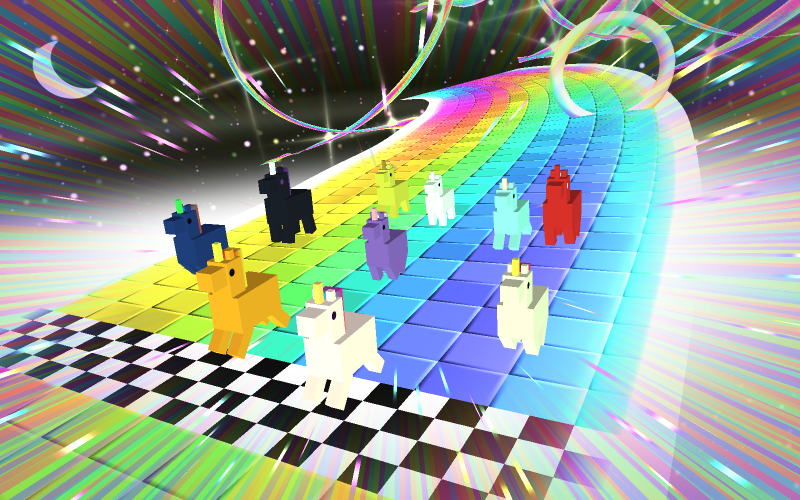
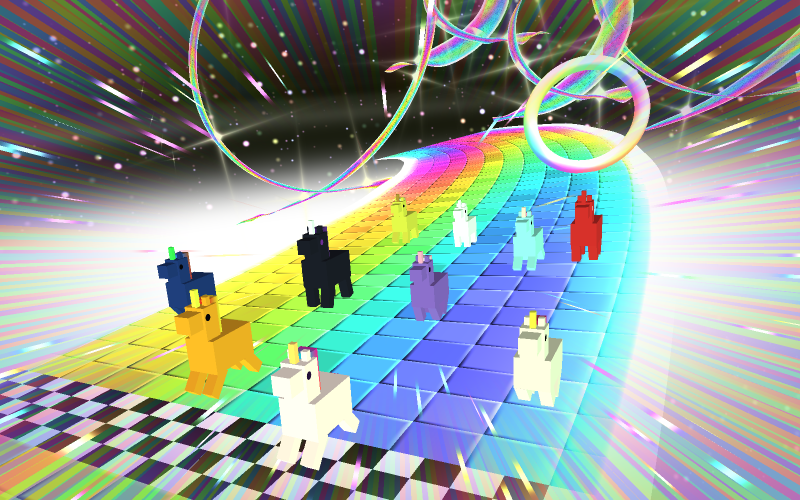
prep work for publish

diff --git a/src/game.js b/src/game.js
@@ -1816,6 +1816,7 @@ bmInit(canvas, [0.02, 0.02, 0.05, 0]).then(() => {
   const COUNT_ROW = 11;
   /** The row of "ST", then ND, RD, TH; four suffixes cover ten places. */
   const SUFFIX_ROW = NAME_ROW - 5;
+  const inkBounds = [];
   const atlasRows = Math.ceil(LINES.length / 2);
   const card = document.createElement('canvas');
   // Browser-font experiment: rasterize smooth rounded lettering at high
@@ -1866,6 +1867,7 @@ bmInit(canvas, [0.02, 0.02, 0.05, 0]).then(() => {
       edgeLeft = Math.min(edgeLeft, x);
       edgeRight = Math.max(edgeRight, x);
     }
+    inkBounds[row] = [edgeLeft, edgeRight];
     bctx.globalCompositeOperation = 'source-in';
     const rainbow = bctx.createLinearGradient(edgeLeft, 0, edgeRight, 0);
     for (let i = 0; i < 7; i++) rainbow.addColorStop(i / 6, `hsl(${i * 50} 90% 70%)`);
@@ -2237,7 +2239,11 @@ bmInit(canvas, [0.02, 0.02, 0.05, 0]).then(() => {
       // HUD markers: -1 numeral, -2 suffix, -3 gauge, -4 label. The shader
       // anchors the groups to SCREEN_PADDING and gives adjacent plates shared
       // edges. Ordinal sizes are relative to FONT_L; left rows use halves.
-      say(PLACE_ROW + place, 0, FONT_XL / FONT_L, -1);
+      // Close the gap between visible outlines, not their padded atlas cells.
+      const suffixRow = SUFFIX_ROW + Math.min(place, 3);
+      const gap = (inkBounds[suffixRow][0] - CARD_W + 12) * FONT_M / FONT_L
+        - 2 - (inkBounds[PLACE_ROW + place][1] - CARD_W / 2 - 50) * FONT_XL / FONT_L;
+      say(PLACE_ROW + place, gap - 0.6, FONT_XL / FONT_L, -1);
       say(SUFFIX_ROW + Math.min(place, 3), 0, FONT_M / FONT_L, -2);
       say(16, 0, FONT_M, -4);
       say(17 + starsHeld, 0, FONT_M, -3);
@@ -2363,4 +2369,7 @@ bmInit(canvas, [0.02, 0.02, 0.05, 0]).then(() => {
       bmDraw(text, n);
     }
   });
+}, () => {
+  // A DOM fallback remains visible even when WebGPU cannot create a device.
+  document.body.innerHTML = '<p style=color:white>No WebGPU';
 });

diff --git a/src/shaders/text.shader.ts b/src/shaders/text.shader.ts
@@ -61,7 +61,7 @@ export const Text = shader({
         // suffix's right edge, shared top, and shared side, the local terms
         // become exactly 0 or 1 before applying the scale. Thus shared edges
         // have identical f32 coordinates instead of independent rounding.
-        x = 1 - uHud.x + ((aCorner.x + suffix - 1) * aCell.z * 12 - uHud.w * 12 + (1 - suffix) * 2) * uHud.z;
+        x = 1 - uHud.x + ((aCorner.x + suffix - 1) * aCell.z * 12 - uHud.w * 12 + (1 - suffix) * 2 + aCell.y) * uHud.z;
         y = uHud.y - 1 + (0.75 + (aCorner.y - 0.75) * aCell.z) * 12 * uHud.z * (16 / 9);
         texX = aCorner.x * uRatio + mix(0.5 + 38 * uRatio / 12, 1 - uRatio, suffix);
       }

diff --git a/artifacts/covers/polished/generation-notes.md b/artifacts/covers/polished/generation-notes.md
@@ -1,0 +1,8 @@
+Generated using the built-in image_gen tool. Original game-rendered artwork is preserved in ../current.
+
+Cover prompt:
+Edit this game cover into polished AAA-quality stylized 3D racing key art. Preserve the actual block/cube unicorn designs and their distinct colors, white Starlight with rainbow mane barely winning at the checkered finish in foreground running toward left, friends spread behind, black Midnight and purple Sparkle near middle, rainbow tiled road with distant loops, one floating boost ring clear of road, no moon. Preserve the exact title lettering/font design from reference: STARLIGHT'S above RAINBOW RACE, white bold italic face, rounded rainbow bevel and shadow, full rainbow across each line, comfortable gap. Upgrade rendering dramatically: beautifully bevelled cube edges, crisp clean silhouettes, premium toy-like materials, subtle physically plausible rainbow bounce light on coats, contact shadows grounding hooves, selective bloom on track edges and magical star pickups in distant loops, cinematic depth, controlled hyperboost light streaks around the perimeter instead of noisy all-over stripes. Keep star pickup out of foreground. White coats must retain shape and shading, not blown out. Rich dark cosmic background, art-directed vibrant rainbow palette, clean premium finish, readable at thumbnail size. Landscape 8:5 composition; title and main white racer within central square safe area so matching square thumbnail can be made; retain ample space between title and racers. No extra text, no badges, no watermark. Output one polished cover.
+
+Thumbnail: Recompose the polished cover as a square, preserving the blocky unicorns, materials, colors, complete title, and Starlight at the finish line. Keep text legible at 320 × 320.
+
+Exports use Lanczos resizing and 256-color PNG quantization to meet the upload limits.
